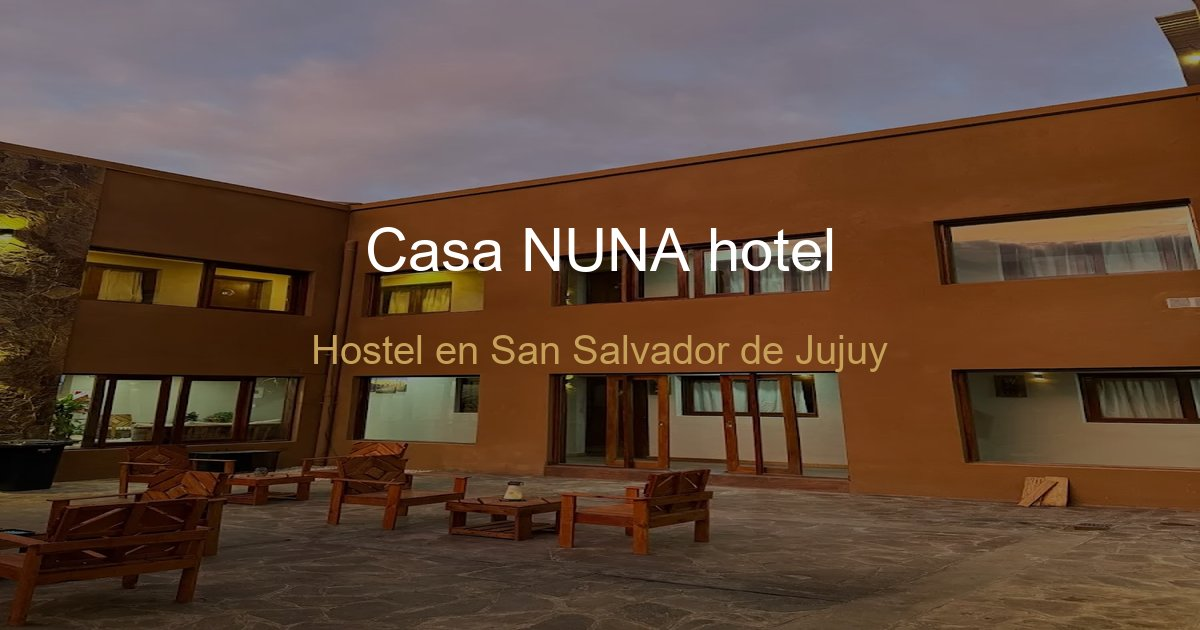
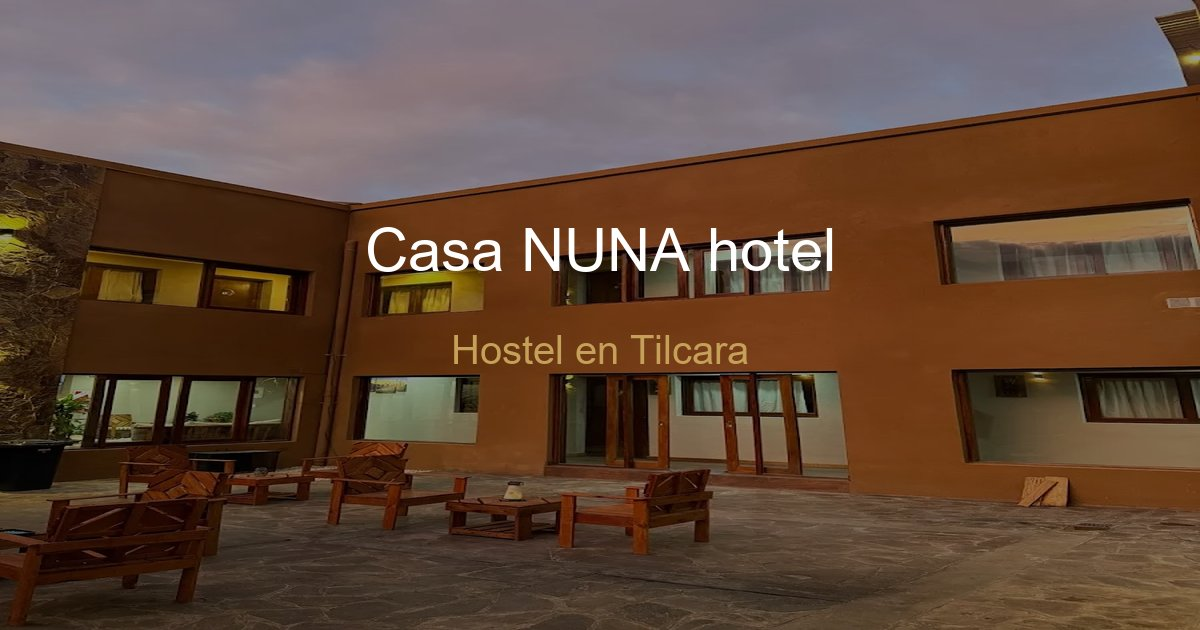
Initial commit

Changed region(s): [[0.2467, 0.5127, 0.74, 0.6032]]

diff --git a/index.html b/index.html
@@ -4,26 +4,26 @@
 <head>
   <meta charset="UTF-8">
   <meta name="viewport" content="width=device-width, initial-scale=1.0">
-  <title id="meta-title">Casa NUNA hotel | Hostel en San Salvador de Jujuy</title>
-  <meta name="description" id="meta-description" content="Casa NUNA hotel, tu alojamiento ideal en San Salvador de Jujuy.">
+  <title id="meta-title">Casa NUNA hotel | Hostel en Tilcara</title>
+  <meta name="description" id="meta-description" content="Casa NUNA hotel: Refugio acogedor con habitaciones privadas en Tilcara, Jujuy. Disfrutá de nuestra terraza con hamacas y vistas únicas a las montañas. Reservas ">
   <link rel="canonical" href="https://casa-nuna-hotel.vercel.app/">
   <meta name="theme-color" content="#16281F">
   <meta name="apple-mobile-web-app-capable" content="yes">
   <meta name="apple-mobile-web-app-status-bar-style" content="black-translucent">
   <meta name="mobile-web-app-capable" content="yes">
 
-  <script type="application/ld+json" id="schema-json">{"@context": "https://schema.org", "@graph": [{"@type": "Hotel", "name": "Casa NUNA hotel", "description": "Un hostel con onda en San Salvador de Jujuy. Conocé Casa NUNA hotel.", "url": "", "telephone": "+5493884681921", "email": "", "image": "", "sameAs": ["https://www.google.com/maps/place/Casa+NUNA+hotel/@-23.5756997,-65.3994407,17z/data=!4m9!3m8!1s0x9404cb927071ead9:0x2b167382e5287509!5m2!4m1!1i2!8m2!3d-23.5756997!4d-65.3968658!16s%2Fg%2F11nk0d7f6f?entry=ttu&g_ep=EgoyMDI2MDkwMi4wIKXMDSoASAFQAw%3D%3D"], "address": {"@type": "PostalAddress", "streetAddress": "Avenida Benjamin Villafañe 303, Y4624 Tilcara, Jujuy, Argentina", "addressLocality": "San Salvador de Jujuy", "addressCountry": "AR"}, "amenityFeature": [{"@type": "LocationFeatureSpecification", "name": "Espacios para descansar", "value": true}, {"@type": "LocationFeatureSpecification", "name": "Conection estable", "value": true}, {"@type": "LocationFeatureSpecification", "name": "En la zona", "value": true}], "aggregateRating": {"@type": "AggregateRating", "ratingValue": 4.6, "reviewCount": 8}}, {"@type": "FAQPage", "mainEntity": [{"@type": "Question", "name": "¿Se puede fumar?", "acceptedAnswer": {"@type": "Answer", "text": "En los espacios al aire libre, sí. Adentro no."}}, {"@type": "Question", "name": "¿Tienen estacionamiento?", "acceptedAnswer": {"@type": "Answer", "text": "Sí, tenemos lugar para estacionar sin cargo."}}, {"@type": "Question", "name": "¿Cuánto queda para la playa/centro?", "acceptedAnswer": {"@type": "Answer", "text": "A pocas cuadras, caminando llegás en 5 minutos."}}, {"@type": "Question", "name": "¿Cómo reservo?", "acceptedAnswer": {"@type": "Answer", "text": "Mandanos un WhatsApp o un mail y te confirmamos al toque. Sin vueltas."}}, {"@type": "Question", "name": "¿Está cerca del mar?", "acceptedAnswer": {"@type": "Answer", "text": "Escribinos y te contamos exactamente cuánto hay hasta la playa desde acá."}}]}]}</script>
+  <script type="application/ld+json" id="schema-json">{"@context": "https://schema.org", "@graph": [{"@type": "Hotel", "name": "Casa NUNA hotel", "description": "Un hostel con onda en San Salvador de Jujuy. Conocé Casa NUNA hotel.", "url": "", "telephone": "+5493884681921", "email": "", "image": "", "sameAs": ["https://www.google.com/maps/place/Casa+NUNA+hotel/@-23.5756997,-65.3994407,17z/data=!4m9!3m8!1s0x9404cb927071ead9:0x2b167382e5287509!5m2!4m1!1i2!8m2!3d-23.5756997!4d-65.3968658!16s%2Fg%2F11nk0d7f6f?entry=ttu&g_ep=EgoyMDI2MDkwMi4wIKXMDSoASAFQAw%3D%3D"], "address": {"@type": "PostalAddress", "streetAddress": "Avenida Benjamin Villafañe 303, Y4624 Tilcara, Jujuy, Argentina", "addressLocality": "San Salvador de Jujuy", "addressCountry": "AR"}, "amenityFeature": [{"@type": "LocationFeatureSpecification", "name": "Habitaciones privadas", "value": true}, {"@type": "LocationFeatureSpecification", "name": "WiFi estable", "value": true}, {"@type": "LocationFeatureSpecification", "name": "Vistas a la montaña", "value": true}], "aggregateRating": {"@type": "AggregateRating", "ratingValue": 4.6, "reviewCount": 8}}, {"@type": "FAQPage", "mainEntity": [{"@type": "Question", "name": "¿Se puede fumar?", "acceptedAnswer": {"@type": "Answer", "text": "En los espacios al aire libre, sí. Adentro no."}}, {"@type": "Question", "name": "¿Tienen estacionamiento?", "acceptedAnswer": {"@type": "Answer", "text": "Sí, tenemos lugar para estacionar sin cargo."}}, {"@type": "Question", "name": "¿Cuánto queda para la playa/centro?", "acceptedAnswer": {"@type": "Answer", "text": "A pocas cuadras, caminando llegás en 5 minutos."}}, {"@type": "Question", "name": "¿Cómo reservo?", "acceptedAnswer": {"@type": "Answer", "text": "Mandanos un WhatsApp o un mail y te confirmamos al toque. Sin vueltas."}}, {"@type": "Question", "name": "¿Está cerca del mar?", "acceptedAnswer": {"@type": "Answer", "text": "Escribinos y te contamos exactamente cuánto hay hasta la playa desde acá."}}, {"@type": "Question", "name": "¿Qué se puede hacer en la zona?", "acceptedAnswer": {"@type": "Answer", "text": "La zona es ideal para playa, paseos costeros y buena comida. Te recomendamos los mejores lugares."}}]}]}</script>
 
-  <meta property="og:title" id="og-title" content="Casa NUNA hotel | Hostel en San Salvador de Jujuy">
-  <meta property="og:description" id="og-description" content="Casa NUNA hotel, tu alojamiento ideal en San Salvador de Jujuy.">
+  <meta property="og:title" id="og-title" content="Casa NUNA hotel | Hostel en Tilcara">
+  <meta property="og:description" id="og-description" content="Casa NUNA hotel: Refugio acogedor con habitaciones privadas en Tilcara, Jujuy. Disfrutá de nuestra terraza con hamacas y vistas únicas a las montañas. Reservas ">
   <meta property="og:url" id="og-url" content="https://casa-nuna-hotel.vercel.app/">
   <meta property="og:type" content="website">
   <meta property="og:image" id="og-image" content="https://casa-nuna-hotel.vercel.app/og-image.jpg">
   <meta property="og:image:width" content="1200">
   <meta property="og:image:height" content="900">
   <meta name="twitter:card" content="summary_large_image">
-  <meta name="twitter:title" id="twitter-title" content="Casa NUNA hotel | Hostel en San Salvador de Jujuy">
-  <meta name="twitter:description" id="twitter-description" content="Casa NUNA hotel, tu alojamiento ideal en San Salvador de Jujuy.">
+  <meta name="twitter:title" id="twitter-title" content="Casa NUNA hotel | Hostel en Tilcara">
+  <meta name="twitter:description" id="twitter-description" content="Casa NUNA hotel: Refugio acogedor con habitaciones privadas en Tilcara, Jujuy. Disfrutá de nuestra terraza con hamacas y vistas únicas a las montañas. Reservas ">
   <meta name="twitter:image" id="twitter-image" content="https://casa-nuna-hotel.vercel.app/og-image.jpg">
 
   <link rel="icon" id="favicon-link"

diff --git a/config-data.js b/config-data.js
@@ -2,8 +2,8 @@ window.__CONFIG = {
   "business": {
     "name": "Casa NUNA hotel",
     "short_name": "Casa NUNA hotel",
-    "tagline": "Casa NUNA hotel - San Salvador de Jujuy",
-    "description": "Casa NUNA hotel, tu alojamiento ideal en San Salvador de Jujuy.",
+    "tagline": "Casa NUNA hotel | Alojamiento en Tilcara, Jujuy",
+    "description": "Casa NUNA hotel: Refugio acogedor con habitaciones privadas en Tilcara, Jujuy. Disfrutá de nuestra terraza con hamacas y vistas únicas a las montañas. Reservas directas sin comisiones.",
     "category": "Hospedaje",
     "followers": 0
   },
@@ -18,13 +18,13 @@ window.__CONFIG = {
   },
   "location": {
     "address": "Avenida Benjamin Villafañe 303, Y4624 Tilcara, Jujuy, Argentina",
-    "district": "San Salvador de Jujuy",
-    "city": "San Salvador de Jujuy",
+    "district": "Tilcara",
+    "city": "Tilcara",
     "province": "",
     "country": "Argentina",
-    "destination_type": "beach",
-    "map_query": "Avenida Benjamin Villafañe 303, Y4624 Tilcara, Jujuy, Argentina, San Salvador de Jujuy",
-    "map_embed": "https://maps.google.com/maps?q=Avenida+Benjamin+Villafa%C3%B1e+303%2C+Y4624+Tilcara%2C+Jujuy%2C+Argentina%2C+San+Salvador+de+Jujuy&t=&z=15&ie=UTF8&iwloc=&output=embed",
+    "destination_type": "mountain",
+    "map_query": "Casa NUNA hotel, Tilcara, Jujuy",
+    "map_embed": "https://www.google.com/maps/embed?pb=!1m18!1m12!1m3!1d3648.5601550993086!2d-65.3994407!3d-23.5756997!2m3!1f0!2f0!3f0!3m2!1i1024!2i768!4f13.1!3m3!1m2!1s0x9404cb927071ead9%3A0x2b167382e5287509!2sCasa+NUNA+hotel!5e0!3m2!1ses-419!2sar!4v1725790000000!5m2!1ses-419!2sar",
     "description": "San Salvador de Jujuy. Bien ubicado para recorrer la zona.",
     "video": "videos/city-video.mp4"
   },
@@ -41,15 +41,15 @@ window.__CONFIG = {
     "tiktok": ""
   },
   "about": {
-    "eyebrow": "Nuestra historia",
-    "title": "Casa NUNA hotel, tu base en San Salvador de Jujuy.",
+    "eyebrow": "Nuestra esencia",
+    "title": "Casa NUNA hotel, tu refugio en Tilcara.",
     "paragraphs": [
-      "Somos un hostel chico en San Salvador de Jujuy con mucho corazón. En Casa NUNA hotel vas a encontrar pileta, parrilla, cocina, WiFi y la mejor onda para que tu viaje sea inolvidable."
+      "Bienvenidos a Casa NUNA hotel, tu lugar en Tilcara. Somos un hospedaje acogedor donde priorizamos el descanso y la conexión con el entorno. Contamos con habitaciones privadas, una zona de estar compartida, desayunador y un patio equipado con hamacas y mesitas ideales para relajarse contemplando la vista panorámica de las montañas."
     ],
     "photos": [
       {
         "src": "fotos/foto-02.webp",
-        "alt": "Interior del hostel"
+        "alt": "Habitacion privada"
       },
       {
         "src": "fotos/foto-03.webp",
@@ -65,21 +65,21 @@ window.__CONFIG = {
   "amenities": [
     {
       "key": "bed",
-      "title": "Espacios para descansar",
-      "description": "Habitaciones pensadas para que descargues baterías.",
+      "title": "Habitaciones privadas",
+      "description": "Espacios confortables para tu descanso en Tilcara.",
       "icon": "bed"
     },
     {
       "key": "wifi",
-      "title": "Conection estable",
-      "description": "WiFi que funciona para laburar y para scrollear.",
+      "title": "WiFi estable",
+      "description": "Conectividad para que estés siempre comunicado.",
       "icon": "wifi"
     },
     {
-      "key": "pin",
-      "title": "En la zona",
-      "description": "Caminando llegás a todo, olvidate del Uber.",
-      "icon": "pin"
+      "key": "mountain",
+      "title": "Vistas a la montaña",
+      "description": "Patio con hamacas y mesitas para disfrutar el paisaje.",
+      "icon": "mountain"
     }
   ],
   "testimonials": [
@@ -189,6 +189,10 @@ window.__CONFIG = {
     {
       "question": "¿Está cerca del mar?",
       "answer": "Escribinos y te contamos exactamente cuánto hay hasta la playa desde acá."
+    },
+    {
+      "question": "¿Qué se puede hacer en la zona?",
+      "answer": "La zona es ideal para playa, paseos costeros y buena comida. Te recomendamos los mejores lugares."
     }
   ],
   "footer": {
@@ -313,6 +317,10 @@ window.__CONFIG = {
         {
           "question": "Is it close to the beach?",
           "answer": "Message us and we'll tell you exactly how far the beach is from here."
+        },
+        {
+          "question": "What is there to do in the area?",
+          "answer": "The area is great for the beach, seaside walks and good food. We'll share our favorite spots."
         }
       ],
       "trust_bar": [
@@ -389,17 +397,17 @@ window.__CONFIG = {
         "amenityFeature": [
           {
             "@type": "LocationFeatureSpecification",
-            "name": "Espacios para descansar",
+            "name": "Habitaciones privadas",
             "value": true
           },
           {
             "@type": "LocationFeatureSpecification",
-            "name": "Conection estable",
+            "name": "WiFi estable",
             "value": true
           },
           {
             "@type": "LocationFeatureSpecification",
-            "name": "En la zona",
+            "name": "Vistas a la montaña",
             "value": true
           }
         ],
@@ -450,6 +458,14 @@ window.__CONFIG = {
             "acceptedAnswer": {
               "@type": "Answer",
               "text": "Escribinos y te contamos exactamente cuánto hay hasta la playa desde acá."
+            }
+          },
+          {
+            "@type": "Question",
+            "name": "¿Qué se puede hacer en la zona?",
+            "acceptedAnswer": {
+              "@type": "Answer",
+              "text": "La zona es ideal para playa, paseos costeros y buena comida. Te recomendamos los mejores lugares."
             }
           }
         ]
